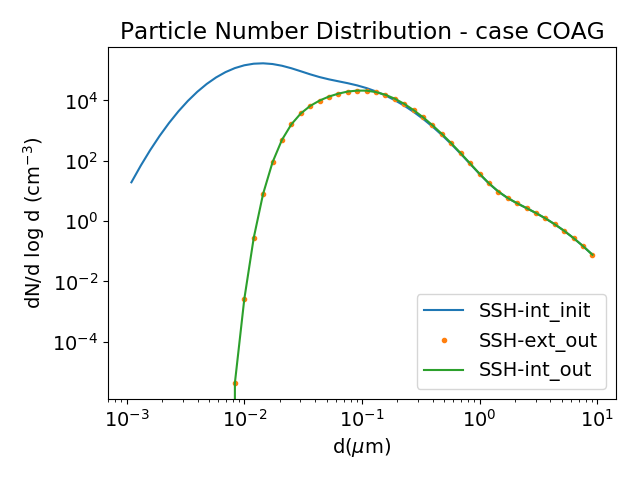
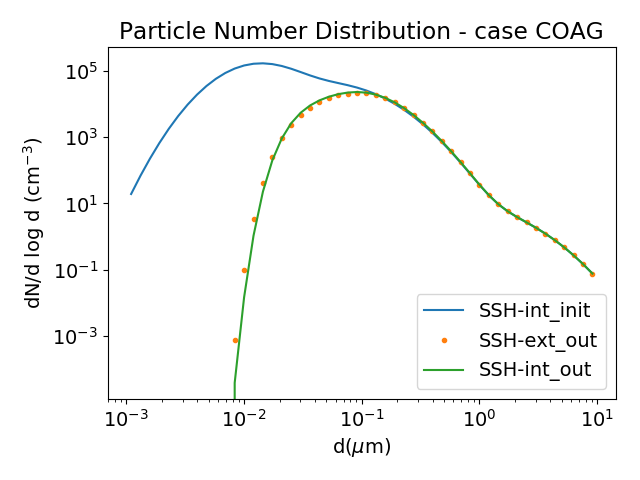
Improve scripts and figures.

diff --git a/graph/dN_Vdlogd_cond.py b/graph/dN_Vdlogd_cond.py
@@ -136,7 +136,7 @@ for i in range(len(lists)) :
 	tmp = np.zeros(num)
 	for j in range(num) :
 		tmp[j]= float(lists[i][j]) / deltalogd[j]* 1E-6 #in cm-3
-		if (tmp[j] < 0.00001) : tmp[j] = 0.0
+		if (tmp[j] < 0.0001) : tmp[j] = 0.0
 	plt.plot(diam_mean, tmp, cols[i],label = lbs[i])
      else:
 	tmp = np.zeros(num)
@@ -149,7 +149,7 @@ for i in range(len(lists)) :
 		if(dd <=0.0):
                   dd = 1.
 		tmp[j]= float(lists[i][j]) / dd* 1E-6 #in cm-3
-		if (tmp[j] < 0.00001) : 
+		if (tmp[j] < 0.0001) : 
 			tmp[j] = 0.0
 			cell_diam_out_sml[j] = diam_mean[j]
 	plt.plot(cell_diam_out_sml, tmp, cols[i],label = lbs[i])

diff --git a/graph/dN_Vdlogd_cond_monomer.py b/graph/dN_Vdlogd_cond_monomer.py
@@ -132,7 +132,7 @@ for i in range(len(lists)) :
 	tmp = np.zeros(num)
 	for j in range(num) :
 		tmp[j]= float(lists[i][j]) / deltalogd[j] * 1E-6
-		if (tmp[j] < 0.00001) : tmp[j] = 0.0
+		if (tmp[j] < 0.0001) : tmp[j] = 0.0
 	plt.plot(diam_mean, tmp, cols[i],label = lbs[i])
      else:
 	tmp = np.zeros(num)
@@ -145,7 +145,7 @@ for i in range(len(lists)) :
 		if(dd <=0.0):
                   dd = 1.
 		tmp[j]= float(lists[i][j]) / dd * 1E-6 #in cm-3
-		if (tmp[j] < 0.00001) : tmp[j] = 0.0 
+		if (tmp[j] < 0.0001) : tmp[j] = 0.0 
 	plt.plot(cell_diam_out_sml, tmp, cols[i],label = lbs[i])
 
 num = len(exa_diam_out)

diff --git a/graph/dN_Vdlogd_coag.py b/graph/dN_Vdlogd_coag.py
@@ -123,7 +123,7 @@ for i in range(len(lists)) :
 	tmp = np.zeros(num)
 	for j in range(num) :
 		tmp[j]= float(lists[i][j]) / deltalogd[j]
-		if (tmp[j] < 0.01) : tmp[j] = 0.0
+		if (tmp[j] < 0.1) : tmp[j] = 0.0
 		else:
 			tmp[j] = tmp[j] * 1E-6 #in cm-3
 	plt.plot(diam_mean, tmp, cols[i],label = lbs[i])
@@ -132,7 +132,7 @@ num = len(exa_diam_out)
 tmp = np.zeros(num)
 for j in range(num) :
 	tmp[j]= float(exact_num_out[j])
-	if(tmp[j] < 0.01) : tmp[j] = 0.0
+	if(tmp[j] < 0.1) : tmp[j] = 0.0
 #plt.plot(exa_diam_out, tmp,'-',label = 'Zhang_out')
 import numpy.ma as ma
 tmp = np.array(tmp)

diff --git a/graph/conc_visco_poamp.py b/graph/conc_visco_poamp.py
@@ -118,7 +118,7 @@ semilogx(t,visco7,'r',label='10$^{-23}$') #m$^2$ s$^{-1}$')
 semilogx(t,visco8,'k',label='10$^{-24}$') #m$^2$ s$^{-1}$')
 title("Kp $\simeq$ 0.01")
 xlabel('Time (s)')
-ylabel('Organic concentrations ($\mu$g~m$^{-3}$)')
+ylabel('Organic concentrations ($\mu$g m$^{-3}$)')
 legend(loc ='best')	
 savefig("visco_poamp.png")
 

diff --git a/graph/conc_visco_poalp.py b/graph/conc_visco_poalp.py
@@ -117,7 +117,7 @@ semilogx(t,visco7,'r',label='10$^{-23}$')
 semilogx(t,visco8,'k',label='10$^{-24}$')
 title("Kp $\simeq$ 1")
 xlabel('Time (s)')
-ylabel('Organic concentrations ($\mu$g~m$^{-3}$)')
+ylabel('Organic concentrations ($\mu$g m$^{-3}$)')
 legend(loc ='best')	
 savefig("visco_poalp.png")
 

diff --git a/graph/conc_visco_soalp.py b/graph/conc_visco_soalp.py
@@ -107,6 +107,6 @@ semilogx(t,visco7,'r',label='10$^{-23}$')
 semilogx(t,visco8,'k',label='10$^{-24}$')
 title("Kp $\simeq$ 100")
 xlabel('Time (s)')
-ylabel('Organic concentrations ($\mu$g~m$^{-3}$)')
+ylabel('Organic concentrations ($\mu$g m$^{-3}$)')
 legend(loc ='best')
 savefig("visco_soalp.png")

diff --git a/graph/dN_Vdlogd_coag_ext.py b/graph/dN_Vdlogd_coag_ext.py
@@ -156,7 +156,7 @@ for i in range(len(lists)) :
 	tmp = np.zeros(num)
 	for j in range(num) :
 		tmp[j]= float(lists[i][j]) / deltalogd[j]
-		if (tmp[j] < 0.01) : tmp[j] = 0.0
+		if (tmp[j] < 0.1) : tmp[j] = 0.0
 		else:
 			tmp[j] = tmp[j] * 1E-6 #in cm-3
         if(i>=3):

diff --git a/graph/dN_Vdlogd_cond_ext.py b/graph/dN_Vdlogd_cond_ext.py
@@ -156,7 +156,7 @@ for i in range(len(lists)) :
 	tmp = np.zeros(num)
 	for j in range(num) :
 		tmp[j]= float(lists[i][j]) / deltalogd[j]
-		if (tmp[j] < 0.01) : tmp[j] = 0.0
+		if (tmp[j] < 0.1) : tmp[j] = 0.0
 		else:
 			tmp[j] = tmp[j] * 1E-6 #in cm-3
         if(i>=3):
